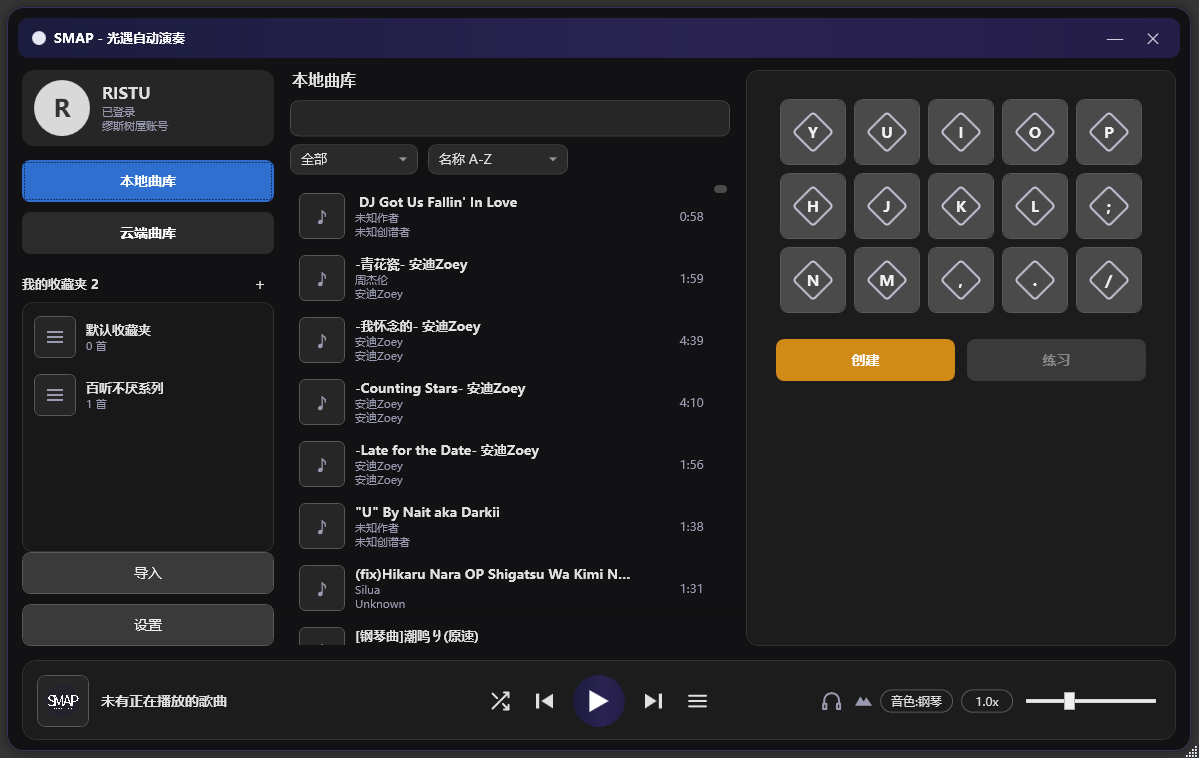
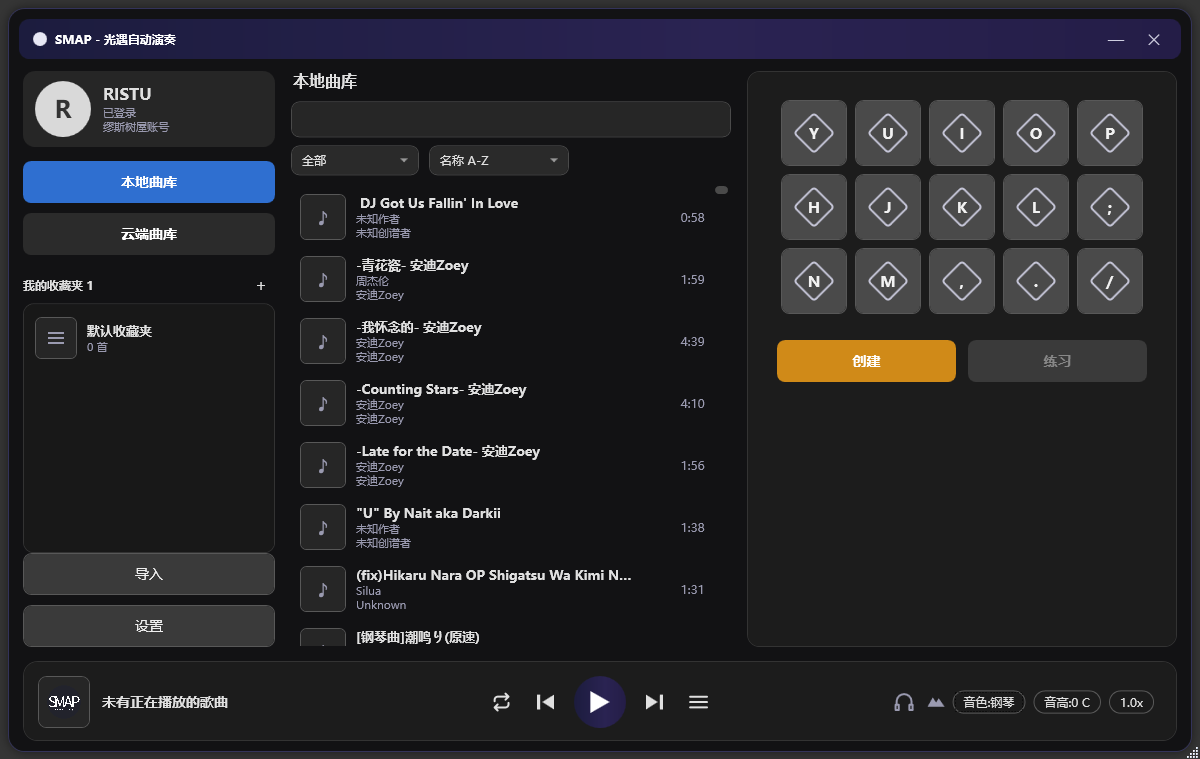
docs: 更新 README 截图为 v2.0 界面(深浅主题 + 中英繁日四语)

diff --git a/README_EN.md b/README_EN.md
@@ -23,13 +23,11 @@ The latest release is a **full C# WPF rewrite** with a **music-player UI** — a
 
 ## Screenshots
 
-Dark theme:
-
-![Dark theme](docs/screenshots/dark_zh.png)
-
-Light theme / English:
-
-![Light / English](docs/screenshots/light_en.png)
+| Dark · Local library (Chinese) | Light · Cloud library (English) |
+|:---:|:---:|
+| ![Dark](docs/screenshots/dark_zh.png) | ![Light](docs/screenshots/light_en.png) |
+| **Traditional Chinese · Settings** | **Japanese · Play queue** |
+| ![TW](docs/screenshots/light_tw.png) | ![JA](docs/screenshots/dark_ja.png) |
 
 ## Features
 
